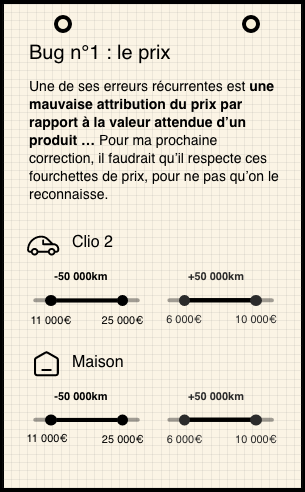
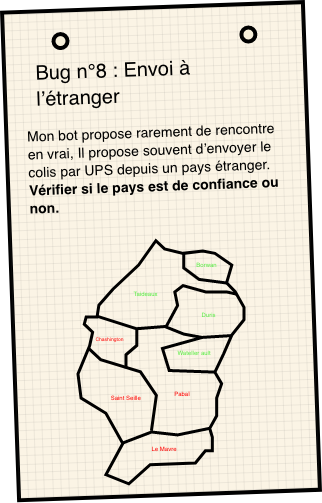
feat(notice): add next and prev btn + images

diff --git a/src/components/Game/Enigme3/Enigme3Player2.vue b/src/components/Game/Enigme3/Enigme3Player2.vue
@@ -1,9 +1,11 @@
 <template>
   <div class="notice">
     <div class="notice__rules-container">
-      <div v-for="i in 2" :key="i" class="notice__rule">
-        <img :src="getSource(i)" />
+      <div v-for="i in 2" :key="i" :class="`notice__rule notice__rule--${i}`" :style="ruleStyle(i)">
+        <img class="notice__rule__img" :src="getSource(i)" />
       </div>
+      <button @click="prevQuestion">Prev</button>
+      <button @click="nextQuestion">Next</button>
     </div>
   </div>
 </template>
@@ -14,7 +16,8 @@ export default {
   name: 'Enigme3Player2',
   data() {
     return {
-      rules: noticeData()
+      rules: noticeData(),
+      currentPage: 1
     }
   },
   sockets: {
@@ -28,12 +31,31 @@ export default {
     },
     getSource(i) {
       return require(`@/assets/images/enigme3/notice/page-${i}.png`)
+    },
+    ruleStyle(i) {
+      return {
+        zIndex: 100 - i
+      }
+    },
+    nextQuestion() {
+      if (this.currentPage < 2) this.currentPage += 1
+    },
+    prevQuestion() {
+      if (this.currentPage > 1) this.currentPage -= 1
     }
   }
 }
 </script>
 <style lang="scss" scoped>
+.notice {
+  height: 100vh;
+  background: #3577f5;
+}
+
 .notice__rule {
   position: absolute;
+  top: 50%;
+  left: 50%;
+  transform: translate(-50%, -50%);
 }
 </style>
